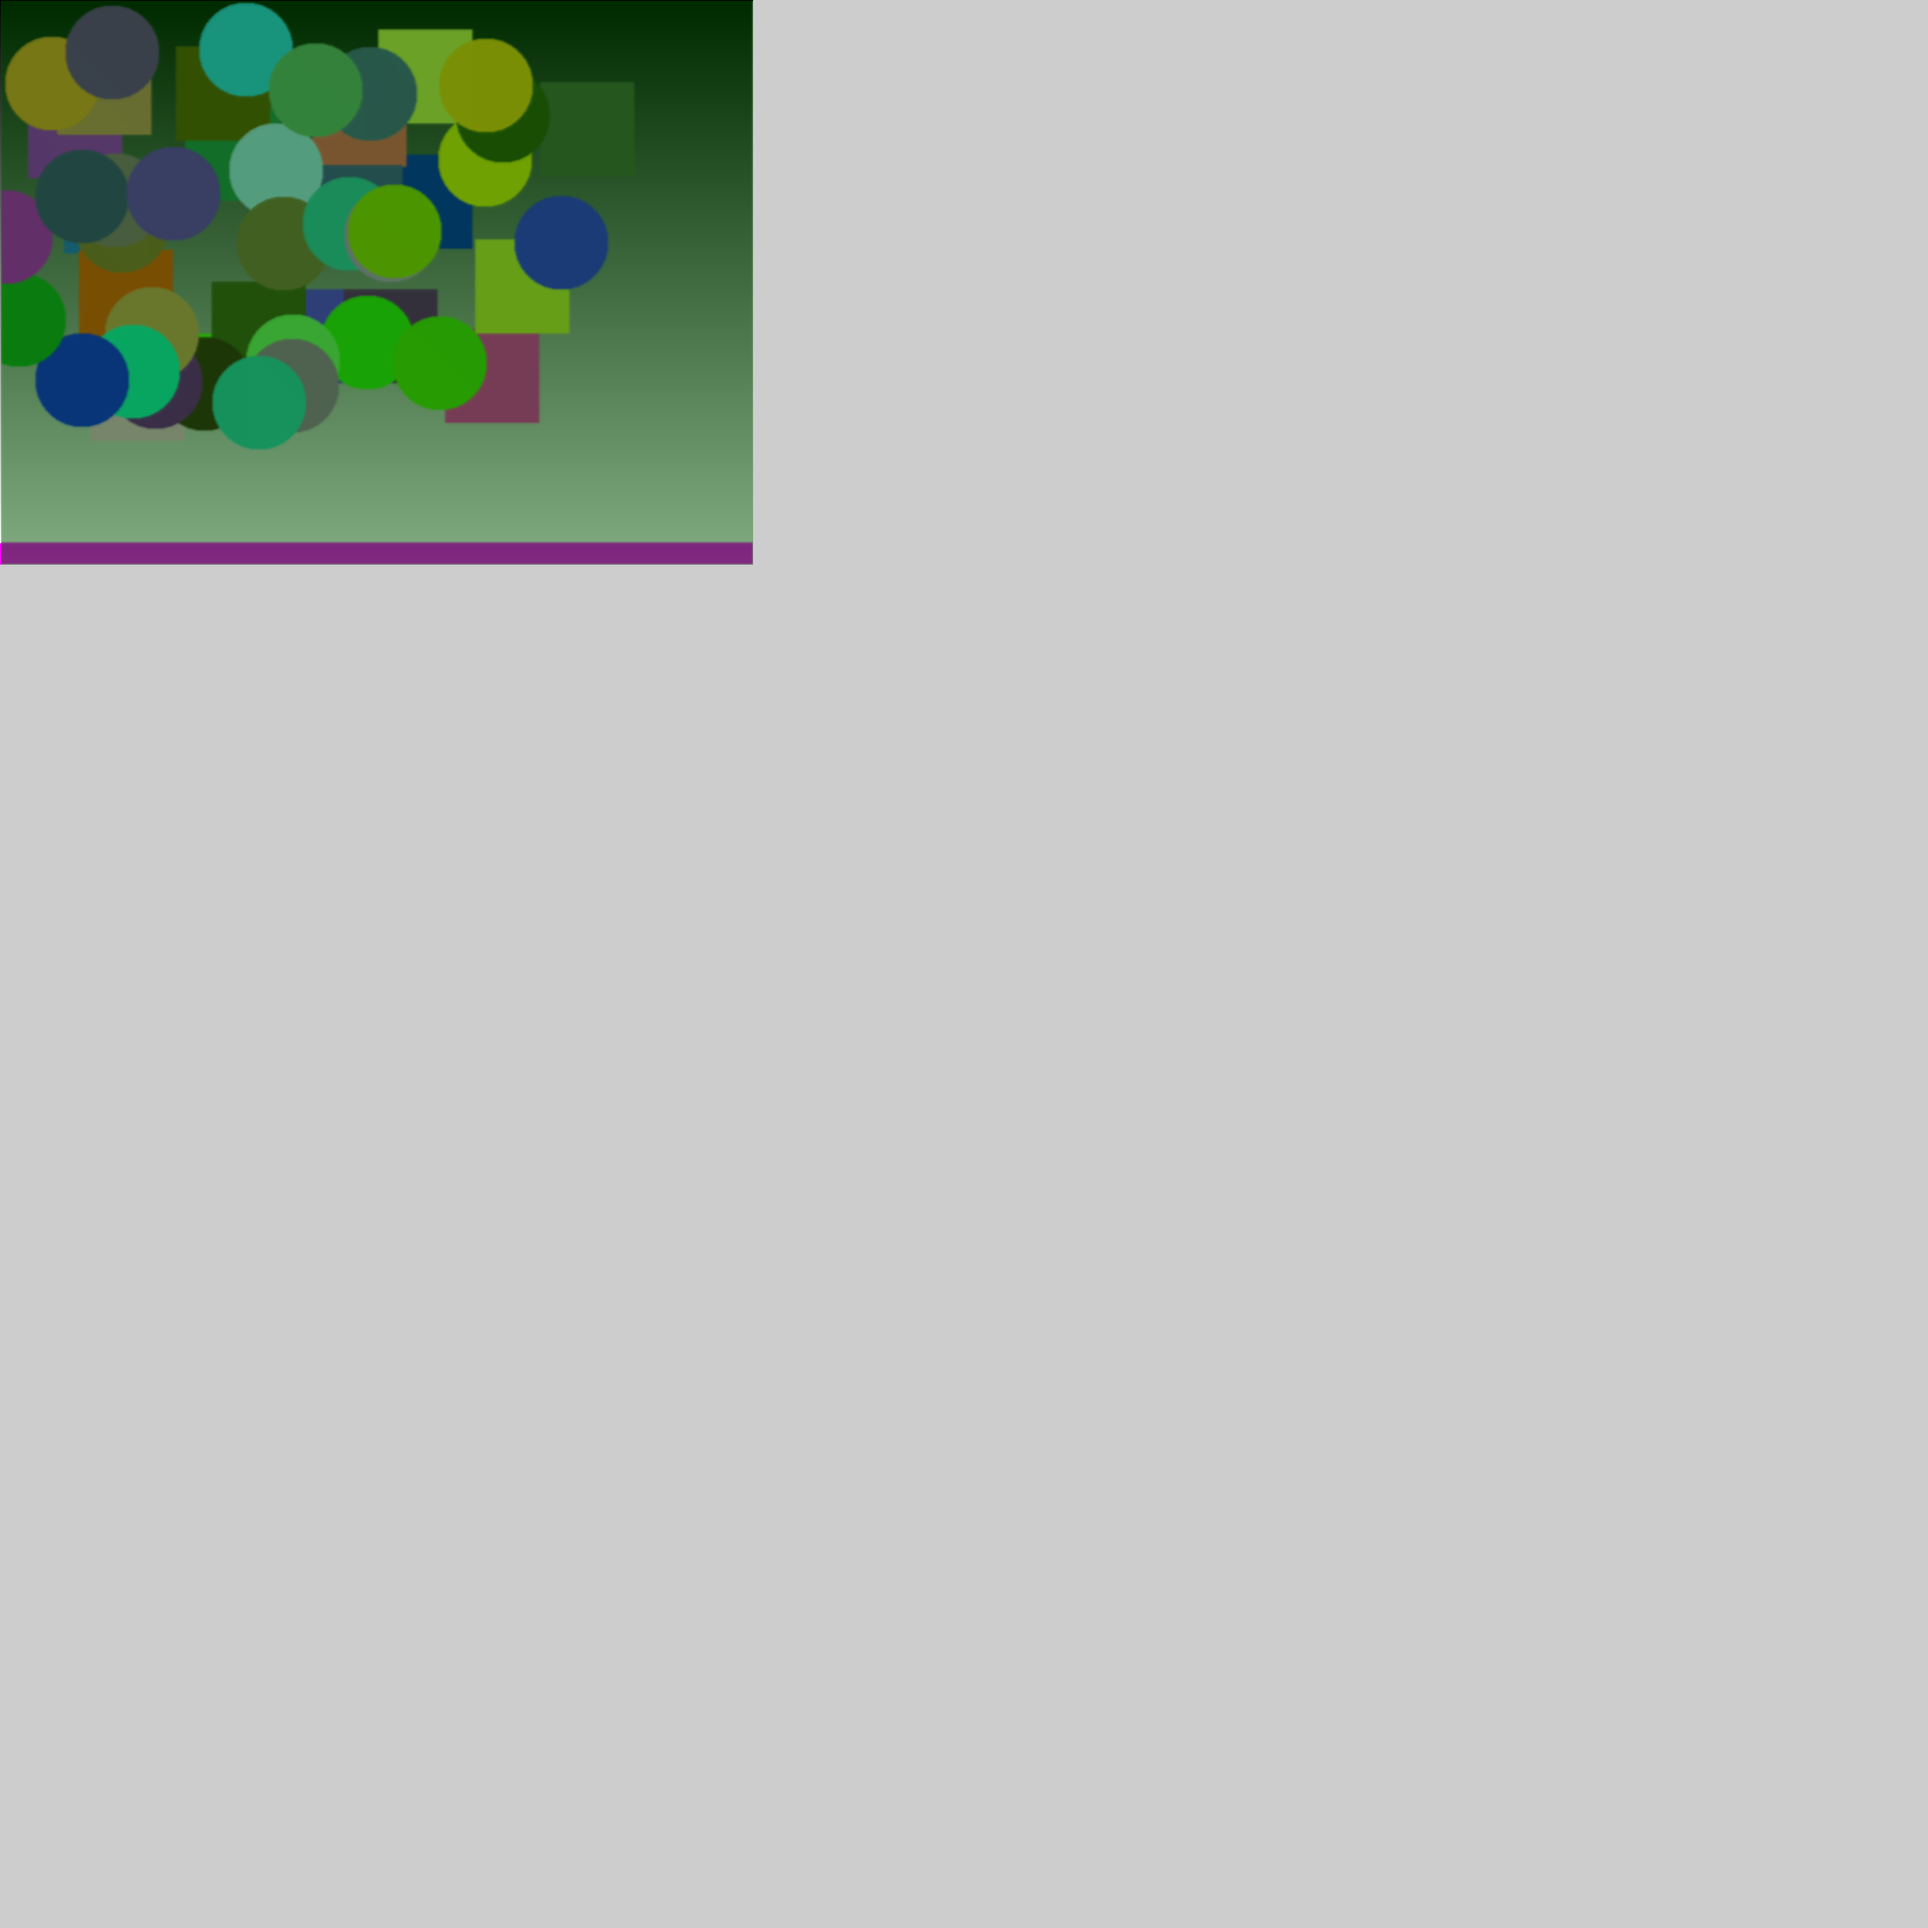
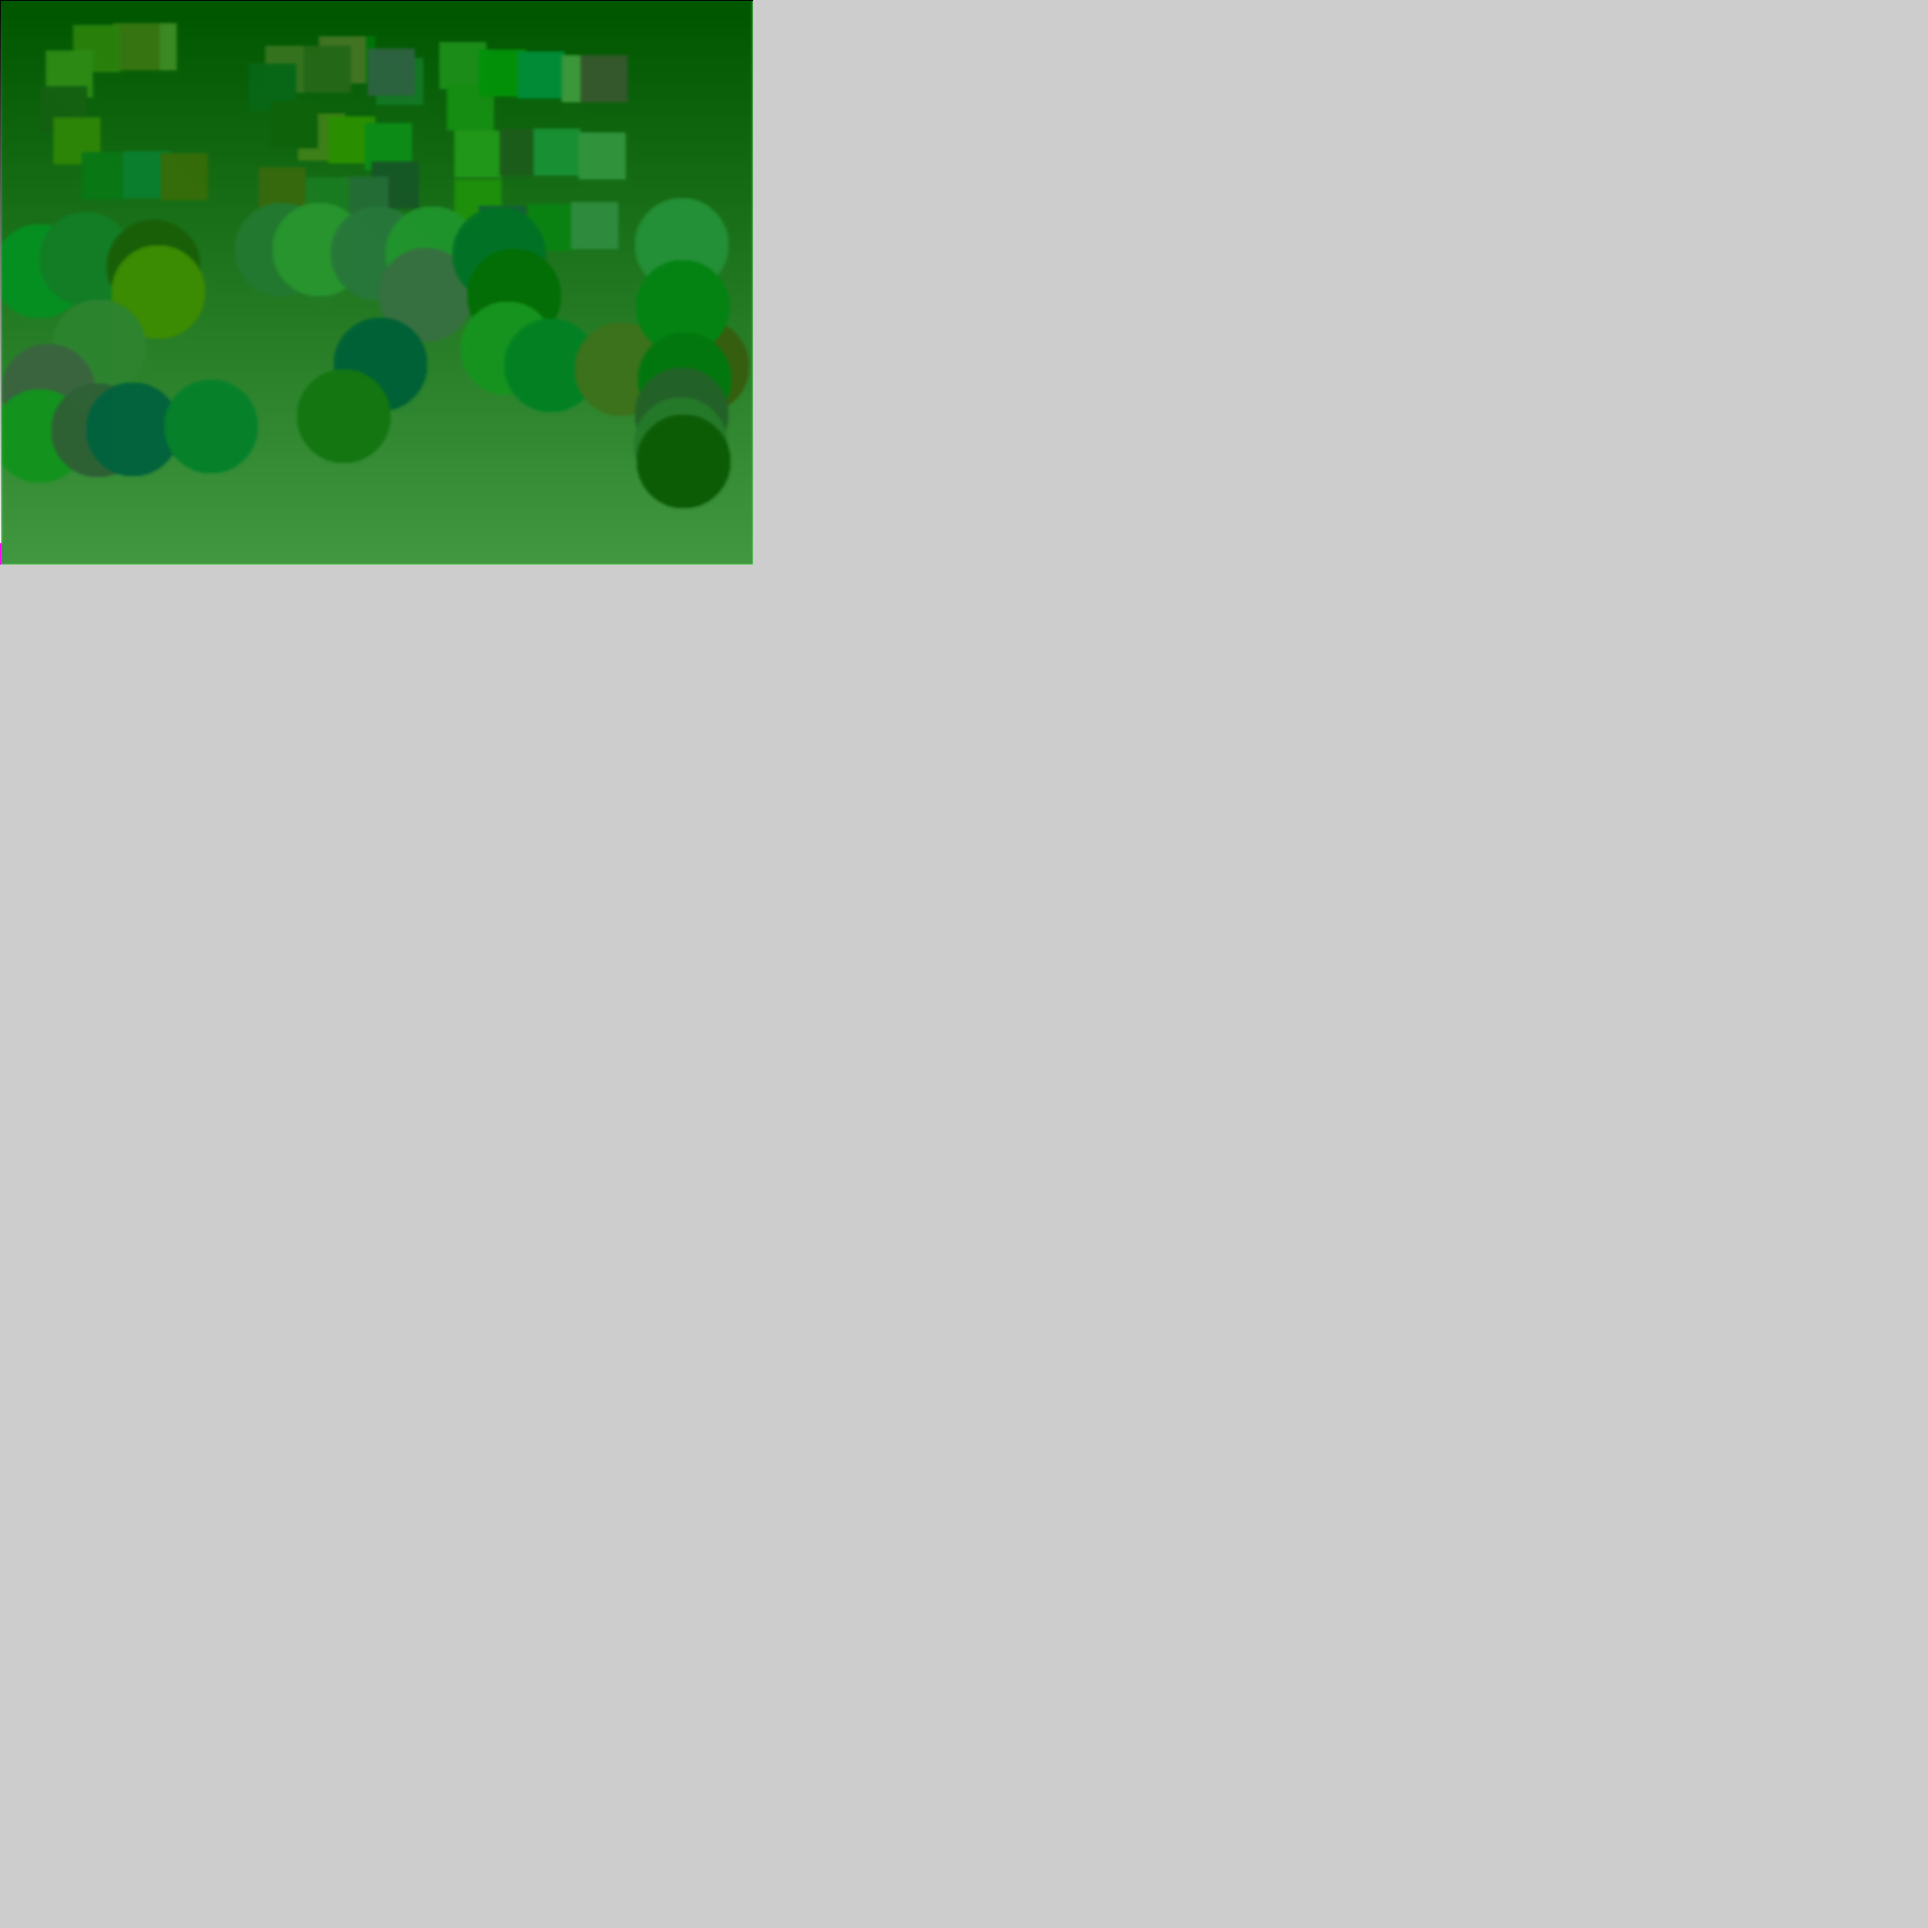
final commit, comments complete

Changed region(s): [[0.0, 0.0, 0.4062, 0.3125]]

diff --git a/src/CatPictureApp.cpp b/src/CatPictureApp.cpp
@@ -1,8 +1,20 @@
 /*
-	Justin Ordway
-	CSE 274
+	@file CatPictureApp.cpp
+	CSE 274 - Fall 2012
 	HW1 - CatPicture
-	9/5/2012
+	
+	@author Justin Ordway
+	@date 9/5/2012
+
+	This project satisfies requirements A1, A2, A4, A6, B1, and E6.
+
+	Controls:
+		r - selects rectangle as draw object
+		c - selects circle as draw object
+		g - clears screen with a gradient
+		t - tints objects on screen
+		b - blurs objects on screen
+		s - saves current screen
 */
 
 #include "cinder/app/AppBasic.h"
@@ -38,15 +50,14 @@ class CatPictureApp : public AppBasic {
 		char drawSize_;
 
 		void rectangle(uint8_t* pixelArray, int x, int y, int width, int height, Color8u fill);
-		void tint(uint8_t* pixelArray, Color8u fill);
 		void circle(uint8_t* pixelArray, int originX, int originY, int radius, Color8u fill);
+		void tint(uint8_t* pixelArray, Color8u fill);
 		void gradient(uint8_t* pixelArray);
 		void blur(uint8_t* pixelArray);
 };
 
 /*
-
-
+	Draws a rectangle of width, height with color fill on the surface at indicated x, y position
 */
 void CatPictureApp::rectangle(uint8_t* pixelArray, int x1, int y1, int width, int height, Color8u fill)
 {
@@ -63,27 +74,7 @@ void CatPictureApp::rectangle(uint8_t* pixelArray, int x1, int y1, int width, in
 }
 
 /*
-
-
-*/
-void CatPictureApp::tint(uint8_t* pixelArray, Color8u fill)
-{
-	for(int y = 0; y < textureSize_; y++)
-	{
-		for(int x = 0; x < textureSize_; x++)
-		{
-			if(x <= 0 || y <= 0 || x >= appWidth_ || y >= appHeight_) continue;
-			pixelArray[3*(x + y * textureSize_)] += fill.r;
-			pixelArray[3*(x + y * textureSize_)+1] += fill.g;
-			pixelArray[3*(x + y * textureSize_)+2] += fill.b;
-		}
-	}
-
-}
-
-/*
-
-
+	Draws a circle with a given radius with color fill on the surface at indicated x, y position
 */
 void CatPictureApp::circle(uint8_t* pixelArray, int originX, int originY, int radius, Color8u fill)
 {
@@ -106,8 +97,7 @@ void CatPictureApp::circle(uint8_t* pixelArray, int originX, int originY, int ra
 }
 
 /*
-
-
+	Clears the surface with a green gradient from top to bottom, called at the start of the program
 */
 void CatPictureApp::gradient(uint8_t* pixelArray)
 {
@@ -126,8 +116,28 @@ void CatPictureApp::gradient(uint8_t* pixelArray)
 }
 
 /*
+	Tints the screen using the given color, has some bugs when used with the gradient causing a swiping effect
+	before the tint is applied. Technically a bug, but I thought it looked cool so I'll call it a feature.
+*/
+void CatPictureApp::tint(uint8_t* pixelArray, Color8u fill)
+{
+	for(int y = 0; y < textureSize_; y++)
+	{
+		for(int x = 0; x < textureSize_; x++)
+		{
+			if(x <= 0 || y <= 0 || x >= appWidth_ || y >= appHeight_) continue;
+			pixelArray[3*(x + y * textureSize_)] += fill.r;
+			pixelArray[3*(x + y * textureSize_)+1] += fill.g;
+			pixelArray[3*(x + y * textureSize_)+2] += fill.b;
+		}
+	}
+
+}
 
 
+/*
+	Blurs the entire surface, if blur button is held for too long it will eventually turn the entire surface
+	black
 */
 void CatPictureApp::blur(uint8_t* pixelArray)
 {
@@ -150,10 +160,6 @@ void CatPictureApp::blur(uint8_t* pixelArray)
 	}
 }
 
-/*
-
-
-*/
 void CatPictureApp::setup()
 {
 	surface_ = new Surface(textureSize_, textureSize_, false);
@@ -163,16 +169,14 @@ void CatPictureApp::setup()
 }
 
 /*
-
-
+	Gets keyboard input from the user to determine what to draw
 */
 void CatPictureApp::keyDown(KeyEvent event) {
 	drawType_ = event.getChar();	
 }
 
 /*
-
-
+	Gets the mouse position and if the left button is down to determine where to place a shape
 */
 void CatPictureApp::mouseDown(MouseEvent event)
 {
@@ -195,8 +199,8 @@ void CatPictureApp::update()
 		Color8u fill = Color8u(r, g, b);
 		if(drawType_ == 'r')
 		{
-			int width = 100;
-			int height = 100;
+			int width = 50;
+			int height = 50;
 
 			rectangle(pixels_, xValue, yValue, width, height, fill);
 		}
@@ -225,7 +229,7 @@ void CatPictureApp::update()
 	}
 	if(drawType_ == 's')
 	{
-		writeImage("ordwayjm.png",*surface_);
+		writeImage("ordwayjm.png", *surface_);
 	}
 }
 
